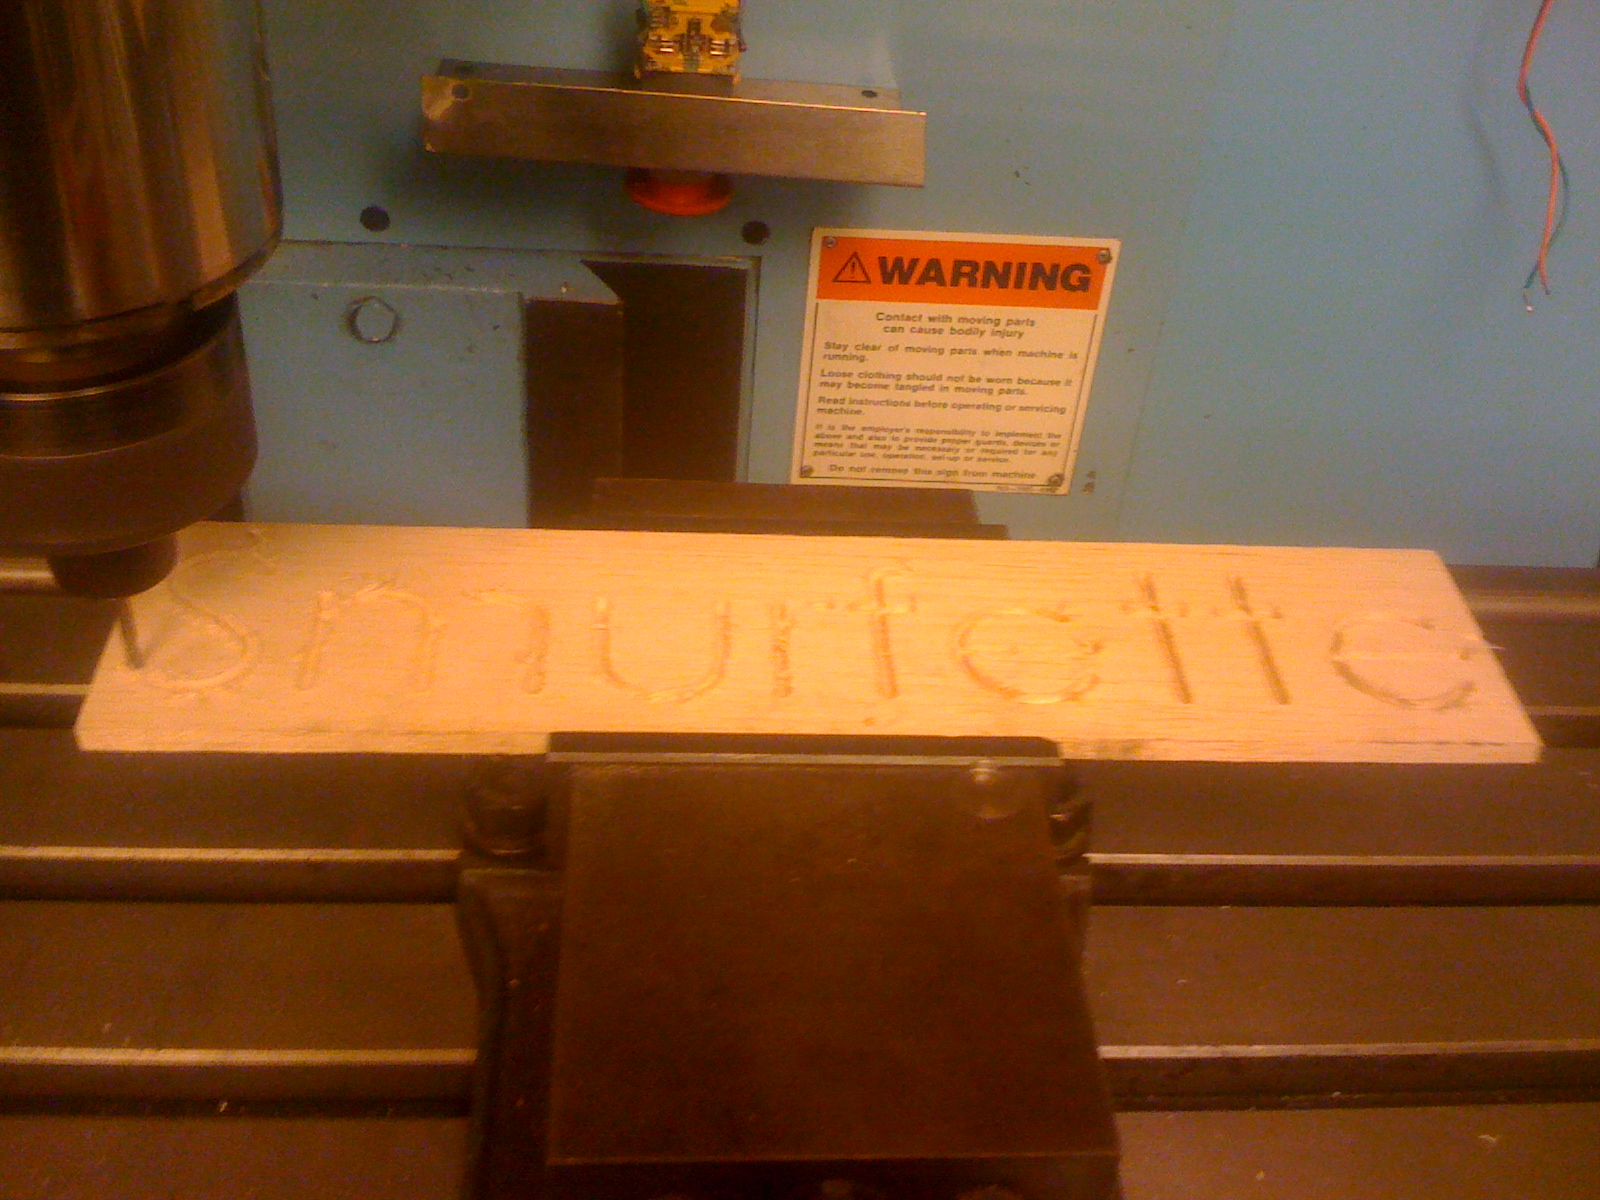
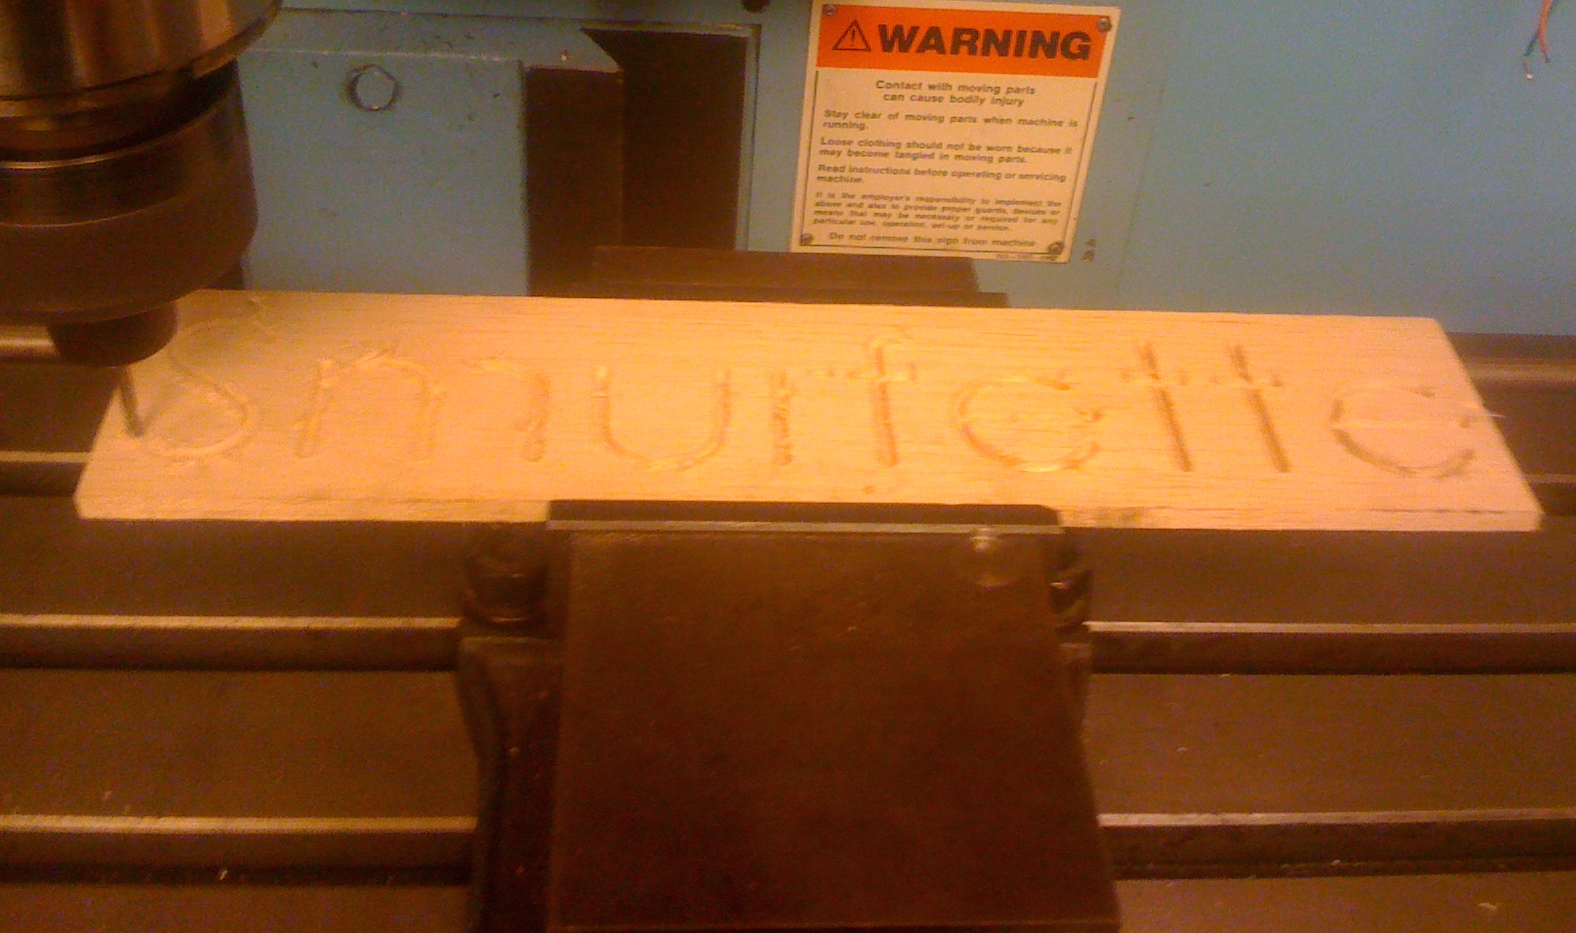
Pushing more content to Smurfette page

diff --git a/portfoliopages/smurfette.html b/portfoliopages/smurfette.html
@@ -54,8 +54,56 @@
             <br> One of the limitations of the Mesa cards was that they required a parallel port and a real-time kernel in order to have fully real-time communication between the machine and the servo driver boards. I was able to find a cheap desktop tower motherboard with a parallel port, and built my first computer in order to have a system that met all the LinuxCNC requirements. Because I was using a new interface board, much of the wiring inside the machine had to go, so that I could send speed and direction signals to the servo driver boards. I was fortunate to have a fully manual with wiring diagrams and I spent many late nights poring over these diagrams figuring out where in the distribution board each signal was supposed to go, with at least one major mistake where the encoder direction and motor direction were reversed, leading to a runaway axis and (fortunately my only broken hardware while rebuilding) a broken bearing nut which was replaceable after calling around the Bay Area bearing companies.
             <br>
 
-            <br>Unfortunately I was so carried away by upgrading Smurfette that I neglected to take pictures during the upgrade process.
+            <br>Unfortunately I was so carried away by upgrading Smurfette that I neglected to take many pictures during the upgrade process.
         </p>
+    </div>
+
+
+    <div class="projectstep">
+        <div class="projectimage">
+            <a href="./portfoliofiles/smurfette/smurfettedissasembly.jpg" class="imagelink"> <img class="imagelink" src="./portfoliofiles/smurfette/smurfettedissasembly_thumb.jpg" alt="Smurfette dissasembly."> </a>
+        </div>
+        <div class="textblock">
+            <p>
+                First, it was necessary to disassemble the machine a little to have good access to the hardware and make sure all the motor drivers were working as expected. Took the chance to tension belts properly.
+            </p>
+        </div>
+    </div>
+
+
+    <div class="projectstep">
+        <div class="projectimage">
+            <a href="./portfoliofiles/smurfette/smurfetteoriginalcomputer.jpg" class="imagelink"> <img class="imagelink" src="./portfoliofiles/smurfette/smurfetteoriginalcomputer_thumb.jpg" alt="Smurfette original computer."> </a>
+        </div>
+        <div class="textblock">
+            <p>
+                From here, it was time to remove the old computer. While the nostalgia was nice, when I turned the machine on I couldn't actually see what was on the screens they were so dim.
+            </p>
+        </div>
+    </div>
+
+
+    <div class="projectstep">
+        <div class="projectimage">
+            <a href="./portfoliofiles/smurfette/newcomputer.jpg" class="imagelink"> <img class="imagelink" src="./portfoliofiles/smurfette/newcomputer_thumb.jpg" alt="Building a new computer."> </a>
+        </div>
+        <div class="textblock">
+            <p>
+                Building the new computer. Mini-ATC form factor mounted to an acrylic baseboard (with plenty of holes in the back for cooling).
+            </p>
+        </div>
+    </div>
+
+
+    <div class="projectstep">
+        <div class="projectimage">
+            <a href="./portfoliofiles/smurfette/newbuiltincomptuer.jpg" class="imagelink"> <img class="imagelink" src="./portfoliofiles/smurfette/newbuiltincomptuer_thumb.jpg" alt="Built in computer is built in."> </a>
+        </div>
+        <div class="textblock">
+            <p>
+                Finally, we can mount the new computer into the new home inside Smurfette. Bolts in to where the old computer was, but now I can see the screeen, use modern CAD/CAM software,and have 500GB of internal storage and a network connection!
+            </p>
+        </div>
     </div>
 
     <div class="projectstep">
@@ -65,6 +113,17 @@
         <div class="textblock">
             <p>
                 Smurfette fully upgraded with a dedicated linux box inside the machine, which is connected by wifi to Dropbox, a easy storage solution for getting GCode to the computer. It currently uses a high resolution 20 inch screen with a wireless keyboard and mouse, and is as self-contained and compact as a 3,000 pound mill could be.
+            </p>
+        </div>
+    </div>
+
+    <div class="projectstep">
+        <div class="projectimage">
+            <a href="./portfoliofiles/smurfette/smurfettespells.JPG" class="imagelink"> <img class="imagelink" src="./portfoliofiles/smurfette/smurfettespells_thumb.jpg" alt="Smurfette spells."> </a>
+        </div>
+        <div class="textblock">
+            <p>
+                Smurfette learns to spell her own name! The first CNC machined part using my modern workflow.
             </p>
         </div>
     </div>

diff --git a/files/index.css b/files/index.css
@@ -1,37 +1,3 @@
-div#navbar {
-    width: 390px;
-    max-width: 100%;
-    margin-left: auto;
-    margin-right: auto;
-    font-family: Verdana, Geneva, Arial, sans-serif;
-    padding-bottom: 20px;
-}
-
-div#navbar h3 {
-    padding-top: 5px;
-    font-size: 25px;
-    font-family: Verdana, Geneva, Arial, sans-serif;
-    margin-bottom: 5px;
-}
-
-div#navbar n1 {
-    padding-top: 5px;
-    font-size: 1.2em;
-    font-family: Verdana, Geneva, Arial, sans-serif;
-    margin-bottom: 5px;
-    padding-left: 2.5px;
-    padding-right: 2.5px;
-}
-
-div#navbar a {
-    text-decoration: none;
-    color: #828282;
-}
-
-div#navbar a:hover {
-    color: #8E0000;
-}
-
 IMG.centered {
     display: block;
     margin-left: auto;
@@ -48,10 +14,10 @@ IMG.centered {
     margin-right: 10px;
 }
 
-div object {
-    display: block;
-    margin-left: auto;
-    margin-right: auto;
+.helper {
+    display: inline-block;
+    height: 100%;
+    vertical-align: middle;
 }
 
 div h3 {
@@ -60,6 +26,78 @@ div h3 {
     font-size: 1.25em;
     font-family: Verdana, Geneva, Arial, sans-serif;
     margin-bottom: 5px;
+}
+
+div#navbar n1 {
+    padding-top: 5px;
+    font-size: 1.2em;
+    font-family: Verdana, Geneva, Arial, sans-serif;
+    margin-bottom: 5px;
+    padding-left: 2.5px;
+    padding-right: 2.5px;
+}
+
+div#footer n1 {
+    padding-top: 5px;
+    font-size: 1em;
+    font-family: Verdana, Geneva, Arial, sans-serif;
+    margin-bottom: 5px;
+    padding-left: 2.5px;
+    padding-right: 2.5px;
+}
+
+div.construction {
+    text-align: center;
+}
+
+div object {
+    display: block;
+    margin-left: auto;
+    margin-right: auto;
+}
+
+div#navbar {
+    width: 390px;
+    max-width: 100%;
+    margin-left: auto;
+    margin-right: auto;
+    font-family: Verdana, Geneva, Arial, sans-serif;
+    padding-bottom: 20px;
+}
+
+div#navbar h3 {
+    padding-top: 5px;
+    font-size: 25px;
+    font-family: Verdana, Geneva, Arial, sans-serif;
+    margin-bottom: 5px;
+}
+
+div#navbar tr {
+    font-size: 20px;
+}
+
+div#navbar table {
+    margin-left: auto;
+    margin-right: auto;
+}
+
+div#navbar table {
+    width: 500px;
+    max-width: 80%;
+}
+
+div#navbar td {
+    padding-left: 15px;
+    padding-right: 15px;
+}
+
+div#navbar a {
+    text-decoration: none;
+    color: #828282;
+}
+
+div#navbar a:hover {
+    color: #8E0000;
 }
 
 div.era h1 {
@@ -183,13 +221,18 @@ div#footer {
     margin-right: auto;
 }
 
-div#footer n1 {
-    padding-top: 5px;
-    font-size: 1em;
-    font-family: Verdana, Geneva, Arial, sans-serif;
-    margin-bottom: 5px;
-    padding-left: 2.5px;
-    padding-right: 2.5px;
+div#footer tr {
+    font-size: 15px;
+}
+
+div#footer table {
+    margin-left: auto;
+    margin-right: auto;
+}
+
+div#footer td {
+    padding-left: 20px;
+    padding-right: 20px;
 }
 
 div#footer a {
